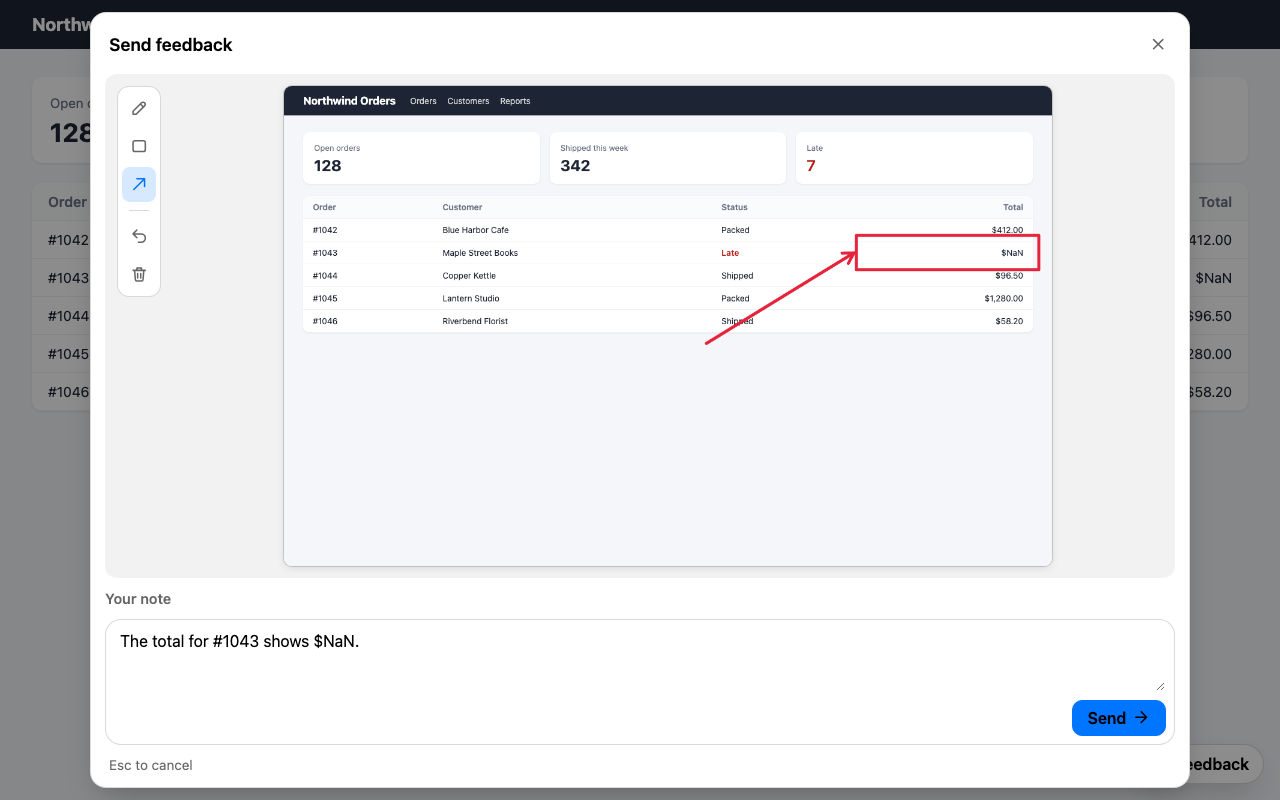
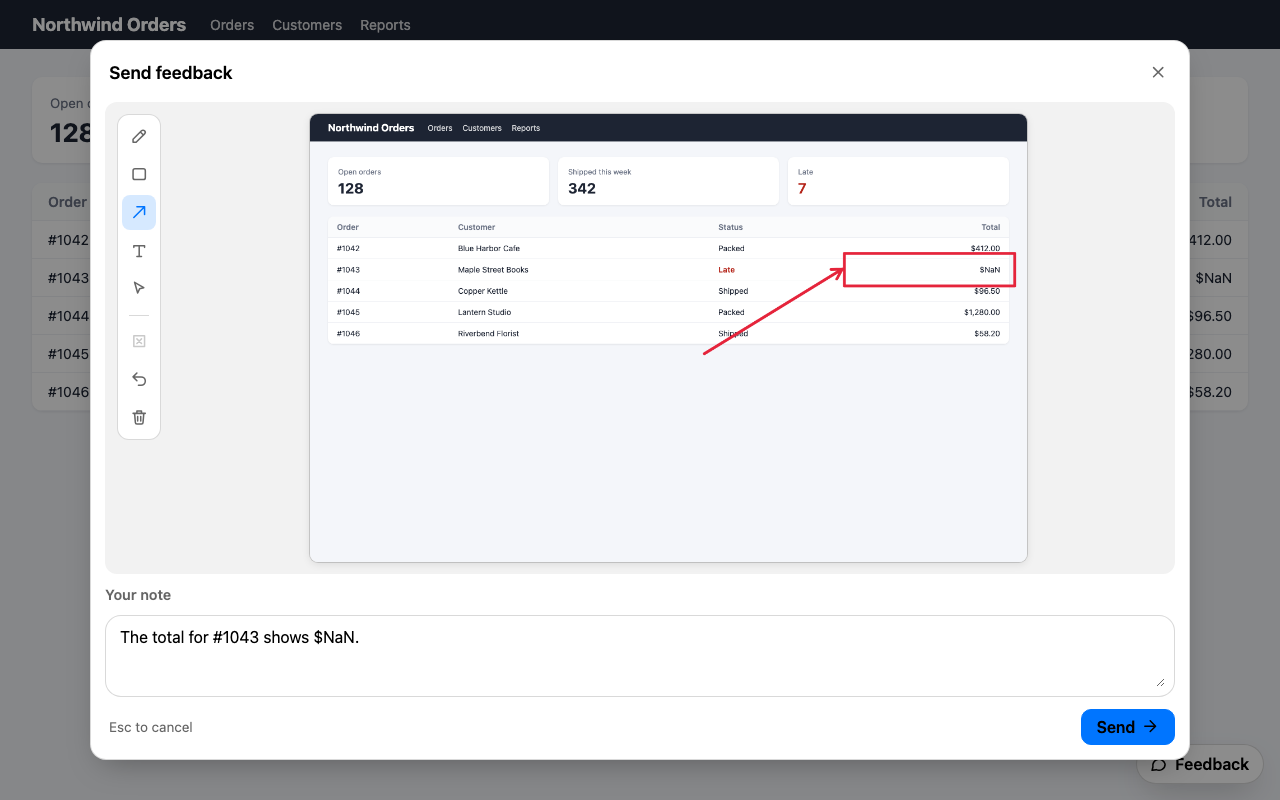
Send in a footer row under the note with the hint; grab and grabbing cursors with Select that follow keys; the screenshot gives up height so Send fits a 720px window

diff --git a/src/dialog.ts b/src/dialog.ts
@@ -1,4 +1,4 @@
-const LAYOUT = `.backdrop{position:fixed;inset:0;width:100%;height:100%;max-width:none;max-height:none;margin:0;padding:0;border:0;box-sizing:border-box;background:none;color:inherit;display:grid;place-items:center;overflow:auto}.backdrop:not([open]){display:none}.backdrop::backdrop{background:none}.dialog{box-sizing:border-box;width:min(560px,100% - 32px);display:grid;gap:12px}.dialog.wide{width:min(1100px,100% - 32px)}.header{display:flex;align-items:center;justify-content:space-between;gap:8px}.title{margin:0}.body{display:grid;grid-template-columns:auto minmax(0,1fr);gap:12px;align-items:start}.body>.image:only-child{grid-column:1/-1}.image{display:block;max-width:100%;max-height:60vh;margin:0 auto;color:var(--_mark)}.body{position:relative}.toolbar+.image{touch-action:none}.selection{position:absolute;pointer-events:none;box-sizing:border-box}.text-input{position:absolute;transform:translateY(-50%);min-width:6em;margin:0;box-sizing:content-box}.toolbar{display:flex;flex-direction:column;gap:4px}.dialog svg{width:1.15em;height:1.15em;flex:none;stroke-linecap:round}.divider{display:block}.composer{display:grid;gap:8px}.note{box-sizing:border-box;width:100%;min-height:64px;resize:vertical}.composer-bar,.actions{display:flex;flex-wrap:wrap;align-items:center;justify-content:flex-end;gap:8px}.send{display:inline-flex;align-items:center;gap:6px}.live{position:fixed;width:1px;height:1px;margin:0;overflow:hidden;clip-path:inset(50%);white-space:nowrap}`;
+const LAYOUT = `.backdrop{position:fixed;inset:0;width:100%;height:100%;max-width:none;max-height:none;margin:0;padding:0;border:0;box-sizing:border-box;background:none;color:inherit;display:grid;place-items:center;overflow:auto}.backdrop:not([open]){display:none}.backdrop::backdrop{background:none}.dialog{box-sizing:border-box;width:min(560px,100% - 32px);display:grid;gap:12px}.dialog.wide{width:min(1100px,100% - 32px)}.header{display:flex;align-items:center;justify-content:space-between;gap:8px}.title{margin:0}.body{display:grid;grid-template-columns:auto minmax(0,1fr);gap:12px;align-items:start}.body>.image:only-child{grid-column:1/-1}.image{display:block;max-width:100%;max-height:min(60vh,100vh - 22em);margin:0 auto;color:var(--_mark)}.body{position:relative}.toolbar+.image{touch-action:none}.selection{position:absolute;pointer-events:none;box-sizing:border-box}.text-input{position:absolute;transform:translateY(-50%);min-width:6em;margin:0;box-sizing:content-box}.toolbar{display:flex;flex-direction:column;gap:4px}.dialog svg{width:1.15em;height:1.15em;flex:none;stroke-linecap:round}.divider{display:block}.composer{display:grid;gap:8px}.note{box-sizing:border-box;width:100%;min-height:64px;resize:vertical}.footer{display:flex;align-items:center;justify-content:space-between;gap:8px}.composer-bar,.actions{display:flex;flex-wrap:wrap;align-items:center;justify-content:flex-end;gap:8px}.send{display:inline-flex;align-items:center;gap:6px}.live{position:fixed;width:1px;height:1px;margin:0;overflow:hidden;clip-path:inset(50%);white-space:nowrap}`;
 
 const THEME = `.backdrop{background:var(--_bd)}.dialog{background:var(--_s);color:var(--_t);border:1px solid var(--_b);border-radius:var(--_r);box-shadow:var(--_sh);padding:14px}.title{margin-left:4px;font-size:1.1em;font-weight:600}.header .cancel,.toolbar button{font:inherit;width:2.15em;height:2.15em;padding:0;display:grid;place-items:center;border:0;border-radius:calc(var(--_r) / 2);background:none;color:var(--_m);cursor:pointer}.header .cancel:hover,.toolbar button:hover:not(:disabled){background:color-mix(in srgb,var(--_t) 8%,transparent);color:var(--_t)}.body{padding:12px;border-radius:calc(var(--_r) * .75);background:color-mix(in srgb,var(--_t) 5%,var(--_s))}.toolbar{padding:4px;border:1px solid var(--_b);border-radius:calc(var(--_r) * .75);background:var(--_s)}.toolbar [aria-pressed=true]{background:color-mix(in srgb,var(--_a) 16%,transparent);color:var(--_a)}.toolbar button:disabled{opacity:.35;cursor:default}.divider{width:20px;margin:4px auto;border-top:1px solid var(--_b)}.image{border-radius:calc(var(--_r) / 2);box-shadow:0 0 0 1px var(--_b),0 2px 8px rgb(0 0 0/10%)}.toolbar+.image{cursor:crosshair}.selection{border:2px dashed var(--_f);border-radius:4px}.text-input{font-family:inherit;font-weight:600;line-height:1.2;color:var(--_mark);background:color-mix(in srgb,var(--_s) 85%,transparent);border:1px dashed var(--_mark);border-radius:4px;padding:0 4px;outline:none}.label{font-size:.9em;font-weight:600;color:var(--_m)}.composer{padding:8px;border:1px solid var(--_b);border-radius:var(--_r);background:var(--_s);transition:border-color .15s,box-shadow .15s}.composer:focus-within{border-color:var(--_f);box-shadow:0 0 0 3px color-mix(in srgb,var(--_f) 22%,transparent)}.note{font:inherit;color:inherit;background:none;border:0;border-radius:calc(var(--_r) / 2);padding:4px 6px}.note:focus-visible{outline:none}.note::placeholder{color:var(--_m)}.category{font:inherit;color:inherit;background:color-mix(in srgb,var(--_t) 5%,var(--_s));border:1px solid var(--_b);border-radius:calc(var(--_r) / 2);padding:6px 8px}.send,.actions button{font:inherit;font-weight:600;height:2.25em;padding:0 .9em;border:1px solid var(--_b);border-radius:calc(var(--_r) / 1.6);background:var(--_s);color:inherit;cursor:pointer}.send{background:var(--_a);color:var(--_at);border-color:var(--_a)}.send:where([data-ink=dark]){color:#000}[aria-disabled=true]{opacity:.6;cursor:progress}.note:disabled,.category:disabled{opacity:.6}.hint{margin:0 4px;font-size:.85em;color:var(--_m)}.error{margin:0 4px;font-weight:500}.status{margin:8px 4px}`;
 
@@ -388,14 +388,20 @@ export function mount(parent: HTMLElement, handlers: Handlers, settings: Setting
     primary = send;
     locked.push(note, ...(category ? [category] : []));
     const box = element("div", "composer");
-    const bar = element("div", "composer-bar");
-    bar.append(...fields, send);
-    box.append(note, bar);
+    box.append(note);
+    // The category, when there is one, stays with the note; Send goes to the footer.
+    if (fields.length) {
+      const bar = element("div", "composer-bar");
+      bar.append(...fields);
+      box.append(bar);
+    }
     composer = box;
     const hint = element("p", "hint");
     hint.textContent = text.escHint;
+    const footer = element("div", "footer");
+    footer.append(hint, send);
     panel.classList.toggle("wide", Boolean(image));
-    panel.replaceChildren(header, ...(image ? [body] : []), label, box, hint);
+    panel.replaceChildren(header, ...(image ? [body] : []), label, box, footer);
     ink(send);
     note.focus();
   }

diff --git a/tests/e2e/annotate.spec.ts b/tests/e2e/annotate.spec.ts
@@ -116,6 +116,9 @@ const middle = (mark: Mark | undefined): Point => {
   return mark.points[Math.floor(mark.points.length / 2)] as Point;
 };
 
+// Two screen pixels in image pixels: the image is shown at about half size in the default window.
+const SLACK = 4;
+
 /** A point on the page background, away from every mark these tests draw. */
 const AWAY: Point = [5, 5];
 
@@ -126,7 +129,10 @@ test("the shown image keeps its shape when the window's height limits it", async
       canvas.clientWidth / canvas.clientHeight,
       canvas.width / canvas.height,
       canvas.clientHeight,
-      innerHeight * 0.6,
+      Math.min(
+        innerHeight * 0.6,
+        innerHeight - 22 * Number.parseFloat(getComputedStyle(canvas).fontSize),
+      ),
     ],
   );
   // The height limit is the one that applies here.
@@ -792,8 +798,8 @@ test("the Text tool places a label where it is clicked: Enter keeps it, in the i
   expect(marks).toHaveLength(1);
   const mark = marks[0];
   expect(mark?.tool === "text" && mark.text).toBe("Broken");
-  expect(mark?.tool === "text" && Math.abs(mark.x - width * 0.3)).toBeLessThan(3);
-  expect(mark?.tool === "text" && Math.abs(mark.y - height * 0.4)).toBeLessThan(3);
+  expect(mark?.tool === "text" && Math.abs(mark.x - width * 0.3)).toBeLessThan(SLACK);
+  expect(mark?.tool === "text" && Math.abs(mark.y - height * 0.4)).toBeLessThan(SLACK);
   // The letters are painted in the mark colour with a white outline, right of where it was placed.
   const x = mark?.tool === "text" ? mark.x : 0;
   const y = mark?.tool === "text" ? mark.y : 0;
@@ -1102,8 +1108,8 @@ test("arrow keys move a selected text label, Shift by ten, and the report has it
   if (mark?.tool !== "text") return;
   // One step is a whole number of image pixels, about one screen pixel.
   const step = Math.max(1, Math.round(ratio));
-  expect(Math.abs(mark.x - (width * 0.3 + 5 * step))).toBeLessThan(3);
-  expect(Math.abs(mark.y - (height * 0.3 + 10 * step))).toBeLessThan(3);
+  expect(Math.abs(mark.x - (width * 0.3 + 5 * step))).toBeLessThan(SLACK);
+  expect(Math.abs(mark.y - (height * 0.3 + 10 * step))).toBeLessThan(SLACK);
 });
 
 test("a mark dragged past the edge stays whole inside the image", async ({ page }) => {
@@ -1125,7 +1131,7 @@ test("a mark dragged past the edge stays whole inside the image", async ({ page 
   if (box?.tool !== "box") return;
   expect(box.x).toBeGreaterThan(width * 0.65);
   // Moved, not shrunk.
-  expect(Math.abs(box.width - width * 0.2)).toBeLessThan(3);
+  expect(Math.abs(box.width - width * 0.2)).toBeLessThan(SLACK);
   expect(box.x + box.width).toBeLessThanOrEqual(width);
   expect(box.y + box.height).toBeLessThanOrEqual(height);
 });
@@ -1158,9 +1164,9 @@ test("a click on empty image or a change of tool clears the selection; arrows an
   expect(marks.map((mark) => mark.tool)).toEqual(["arrow"]);
   const arrow = marks[0];
   if (arrow?.tool !== "arrow") return;
-  expect(Math.abs(arrow.from[0] - width * 0.2)).toBeLessThan(3);
-  expect(Math.abs(arrow.from[1] - height * 0.2)).toBeLessThan(3);
-  expect(Math.abs(arrow.to[0] - width * 0.5)).toBeLessThan(3);
+  expect(Math.abs(arrow.from[0] - width * 0.2)).toBeLessThan(SLACK);
+  expect(Math.abs(arrow.from[1] - height * 0.2)).toBeLessThan(SLACK);
+  expect(Math.abs(arrow.to[0] - width * 0.5)).toBeLessThan(SLACK);
 });
 
 test("a click inside a box selects nothing, and the outline of a selected mark is not in the sent image", async ({
@@ -1219,8 +1225,8 @@ test("Undo of a removal puts the mark back in its place among others; a pen line
   const ys = marks.map((mark) => (mark.tool === "pen" ? mark.points[0]?.[1] : -1) ?? -1);
   // The middle line is back in the middle of the list, the order they were drawn in.
   expect(ys).toHaveLength(3);
-  expect(Math.abs((ys[0] ?? 0) - height * 0.3)).toBeLessThan(3);
-  expect(Math.abs((ys[1] ?? 0) - height * 0.5)).toBeLessThan(3);
+  expect(Math.abs((ys[0] ?? 0) - height * 0.3)).toBeLessThan(SLACK);
+  expect(Math.abs((ys[1] ?? 0) - height * 0.5)).toBeLessThan(SLACK);
   expect(Math.abs((ys[2] ?? 0) - (height * 0.7 + 30 * ratio))).toBeLessThan(4);
 });
 
@@ -1333,4 +1339,59 @@ test("with Select listed first, the dialog still opens on the first drawing tool
     [0.5, 0.5],
   ]);
   expect((await send(page)).map((mark) => mark.tool)).toEqual(["pen"]);
+});
+
+test("with Select, the cursor is a hand over a mark, a closed hand while dragging, and an arrow elsewhere", async ({
+  page,
+}) => {
+  await opened(page);
+  await tool(page, "Box").click();
+  await drag(page, [
+    [0.2, 0.2],
+    [0.5, 0.5],
+  ]);
+  const cursor = () => image(page).evaluate((canvas) => getComputedStyle(canvas).cursor);
+  await tool(page, "Select").click();
+  const [edge, empty] = await on(page, [
+    [0.2, 0.35],
+    [0.8, 0.8],
+  ]);
+  await page.mouse.move(...(edge as Point));
+  await expect.poll(cursor).toBe("grab");
+  await page.mouse.move(...(empty as Point));
+  await expect.poll(cursor).toBe("default");
+  await page.mouse.move(...(edge as Point));
+  await expect.poll(cursor).toBe("grab");
+  await page.mouse.down();
+  await page.mouse.move((edge?.[0] ?? 0) + 20, edge?.[1] ?? 0, { steps: 3 });
+  await expect.poll(cursor).toBe("grabbing");
+  await page.mouse.up();
+  await expect.poll(cursor).toBe("grab");
+  for (const name of ["Draw", "Box", "Arrow", "Text"]) {
+    await tool(page, name).click();
+    await expect.poll(cursor).toBe("crosshair");
+  }
+});
+
+test("with Select, the cursor follows a mark that a key moves or removes under a still pointer", async ({
+  page,
+}) => {
+  await opened(page);
+  await tool(page, "Box").click();
+  await drag(page, [
+    [0.2, 0.2],
+    [0.5, 0.5],
+  ]);
+  const cursor = () => image(page).evaluate((canvas) => getComputedStyle(canvas).cursor);
+  await tool(page, "Select").click();
+  const [edge] = await on(page, [[0.2, 0.35]]);
+  await page.mouse.click(...(edge as Point));
+  await expect.poll(cursor).toBe("grab");
+  // Shift steps are 10 image pixels; the box leaves the still pointer.
+  for (let i = 0; i < 5; i++) await page.keyboard.press("Shift+ArrowRight");
+  await expect.poll(cursor).toBe("default");
+  for (let i = 0; i < 5; i++) await page.keyboard.press("Shift+ArrowLeft");
+  await expect.poll(cursor).toBe("grab");
+  await page.keyboard.press("Delete");
+  await expect.poll(cursor).toBe("default");
 });

diff --git a/tests/e2e/send.spec.ts b/tests/e2e/send.spec.ts
@@ -458,6 +458,72 @@ test("categories show a labelled picker and set report.category; without them th
   expect(await categories()).toEqual(["absent"]);
 });
 
+// The hint and Send sit side by side, under the note box, inside the dialog.
+async function footer(page: Page): Promise<void> {
+  const root = page.locator("visual-feedback");
+  type Rect = { x: number; y: number; width: number; height: number };
+  const [panel, box, hint, send] = (await Promise.all(
+    [
+      page.getByRole("dialog"),
+      root.locator(".composer"),
+      root.locator(".footer .hint"),
+      sendButton(page),
+    ].map(async (at) => (await at.boundingBox()) ?? { x: 0, y: 0, width: 0, height: 0 }),
+  )) as [Rect, Rect, Rect, Rect];
+  for (const part of [hint, send]) {
+    expect(part.width).toBeGreaterThan(0);
+    expect(part.y).toBeGreaterThanOrEqual(box.y + box.height);
+    expect(part.x).toBeGreaterThanOrEqual(panel.x);
+    expect(part.x + part.width).toBeLessThanOrEqual(panel.x + panel.width);
+    expect(part.y + part.height).toBeLessThanOrEqual(panel.y + panel.height);
+  }
+  expect(hint.x + hint.width).toBeLessThanOrEqual(send.x);
+  expect(Math.abs(hint.y + hint.height / 2 - (send.y + send.height / 2))).toBeLessThan(4);
+}
+
+test("Send sits in a footer under the note, with the hint, and Tab goes note, category, Send", async ({
+  page,
+}) => {
+  await opened(page, { submit: "ok", categories: true });
+  const root = page.locator("visual-feedback");
+  await expect(root.locator(".composer .send")).toHaveCount(0);
+  await expect(root.locator(".footer .send")).toHaveCount(1);
+  await expect(root.locator(".footer .hint")).toHaveText("Esc to cancel");
+  await footer(page);
+  await note(page).focus();
+  await page.keyboard.press("Tab");
+  await expect(page.getByRole("combobox", { name: "Type" })).toBeFocused();
+  await page.keyboard.press("Tab");
+  await expect(sendButton(page)).toBeFocused();
+});
+
+test("without categories, the footer still holds the hint and Send, and Tab goes note, Send", async ({
+  page,
+}) => {
+  await opened(page, { submit: "ok" });
+  await footer(page);
+  await note(page).focus();
+  await page.keyboard.press("Tab");
+  await expect(sendButton(page)).toBeFocused();
+});
+
+test("in a short window the panel scrolls: its top is not cut off and Send can be reached", async ({
+  page,
+}) => {
+  await page.setViewportSize({ width: 1280, height: 420 });
+  await opened(page, { submit: "ok", categories: true });
+  const root = page.locator("visual-feedback");
+  // Scrolled to the top, the whole panel is reachable: centring never pushes it above the window.
+  const top = await root.locator(".dialog").evaluate((panel) => {
+    (panel.parentElement as HTMLElement).scrollTop = 0;
+    return panel.getBoundingClientRect().top;
+  });
+  expect(top).toBeGreaterThanOrEqual(0);
+  await note(page).fill("short window");
+  await sendButton(page).click();
+  await expect(page.getByRole("status")).toBeVisible();
+});
+
 test("the category picker is in the Tab order, after the note", async ({ page }) => {
   await opened(page, { submit: "ok", categories: true });
   await page.keyboard.press("Tab");

diff --git a/src/annotate.ts b/src/annotate.ts
@@ -97,6 +97,7 @@ export function annotate(
   let selected: number | null = null;
   // The selected mark as it was when the drag began, and where the drag began.
   let dragging: { id: number; start: Point; mark: Mark } | null = null;
+  let hovered: Point | null = null;
   let frame: HTMLDivElement | null = null;
   let current: { id: number; start: Point; mark: Line } | null = null;
   // The label being typed, and where it goes in image pixels.
@@ -115,6 +116,7 @@ export function annotate(
     target.lineCap = "round";
     target.lineJoin = "round";
     outlineSelection();
+    hover();
     for (const mark of current ? [...marks, current.mark] : marks) {
       if (mark.tool !== "text") {
         stroke(target, mark);
@@ -252,9 +254,16 @@ export function annotate(
     onChange();
   }
 
+  // A key or a button can move or remove the mark under a pointer that has not moved.
+  function hover(): void {
+    if (tool !== "select" || dragging) return;
+    canvas.style.cursor = hovered !== null && hit(hovered) !== null ? "grab" : "default";
+  }
+
   function finishDrag(): void {
     const before = dragging?.mark;
     dragging = null;
+    if (before) hover();
     if (!before || selected === null) return;
     if (marks[selected] !== before) history.push({ kind: "move", index: selected, mark: before });
     onChange();
@@ -357,6 +366,7 @@ export function annotate(
       if (index === null) return;
       canvas.setPointerCapture(event.pointerId);
       dragging = { id: event.pointerId, start, mark: marks[index] as Mark };
+      canvas.style.cursor = "grabbing";
       return;
     }
     if (tool === "text") {
@@ -392,6 +402,8 @@ export function annotate(
   }
 
   canvas.addEventListener("pointermove", (event) => {
+    hovered = point(event);
+    hover();
     if (dragging?.id === event.pointerId && selected !== null) {
       if (event.buttons === 0) return finishDrag();
       const [x, y] = point(event);
@@ -411,6 +423,9 @@ export function annotate(
     if (current?.id !== event.pointerId) return;
     extend(event);
     end();
+  });
+  canvas.addEventListener("pointerleave", () => {
+    hovered = null;
   });
   // The browser took the pointer (a gesture, a lost capture): keep what was drawn, not its last point.
   for (const type of ["pointercancel", "lostpointercapture"]) {
@@ -450,6 +465,9 @@ export function annotate(
       if (next === "select") canvas.tabIndex = 0;
       else canvas.removeAttribute("tabindex");
       select(null);
+      // Drawing tools keep the stylesheet's crosshair.
+      if (next === "select") hover();
+      else canvas.style.cursor = "";
     },
     marks,
     get canUndo() {

diff --git a/CHANGELOG.md b/CHANGELOG.md
@@ -2,16 +2,17 @@
 
 ## 0.2.0 (not released yet)
 
-- A new look: a tool rail with icons beside the screenshot, the note as a composer with Send inside
-  it, a close button in the header, and an "Esc to cancel" hint. Text follows the site's font and
-  size.
+- A new look: a tool rail with icons beside the screenshot, the note as a composer with Send in a
+  footer row under it, a close button in the header, and an "Esc to cancel" hint. Text follows the site's font and
+  size. In a short window the screenshot gives up height, so the note and Send stay in view.
 - The trigger is a pill with an icon and a short label: new `strings.triggerText` ("Feedback"), and
   new `strings.escHint`; code that types a full `FeedbackStrings` object needs both keys.
   `--vf-trigger-size` is now its height, 2.5em by default (40px on a 16px site).
 - Changed defaults: `--vf-radius` 16px and a softer `--vf-shadow`. New part names: `header`,
   `body`, `divider`, `icon`, `composer`, `composer-bar`, `hint`, `trigger-text`. Send no longer sits
   inside `.actions`: host CSS aimed at `.actions .send` needs `.send`. Cancel is now the header's
-  close button, still `::part(cancel)`; `actions` holds only the capture error's buttons.
+  close button, still `::part(cancel)`; `actions` holds only the capture error's buttons. The new
+  `footer` part holds the hint and Send.
 - A Text tool: a label typed where the image is clicked. It adds a mark kind,
   `{ tool: "text", x, y, text }`, to the report. A 0.1.0 server refuses a report that holds one,
   so update the widget and the server together. New `strings.text`.

diff --git a/docs/SPEC.md b/docs/SPEC.md
@@ -19,7 +19,7 @@ idle --open--> capturing --image ready--> annotating --Send--> sending --ok--> s
   screenshot" (annotating with no image: no toolbar, `image: null`, no marks) and Cancel or Esc
   (idle).
 - **annotating:** a full-viewport overlay shows the image with a tool rail beside it, and the note
-  field with Send inside it. A close button in the header and Esc cancel.
+  field, with Send in a footer row under it. A close button in the header and Esc cancel.
 - **sending:** the note, the category and the tools are disabled, and the Send button shows
   progress. Cancel and Esc still close the dialog.
 - **sent:** a short confirmation, then idle.

diff --git a/docs/THEMING.md b/docs/THEMING.md
@@ -41,7 +41,7 @@ visual-feedback {
 ## 3. `::part()`
 Every visible element has a part name: `trigger`, `trigger-icon`, `trigger-text`, `backdrop`,
 `dialog`, `header`, `title`, `body`, `image`, `toolbar`, `tool`, `tool-active`, `divider`, `undo`,
-`clear`, `remove`, `icon`, `text-input`, `selection`, `label`, `composer`, `note`, `composer-bar`, `category`, `actions`, `cancel`, `send`,
+`clear`, `remove`, `icon`, `text-input`, `selection`, `label`, `composer`, `note`, `composer-bar`, `category`, `footer`, `actions`, `cancel`, `send`,
 `hint`, `status`, `error`, `retry`, `send-without`.
 
 ```css
